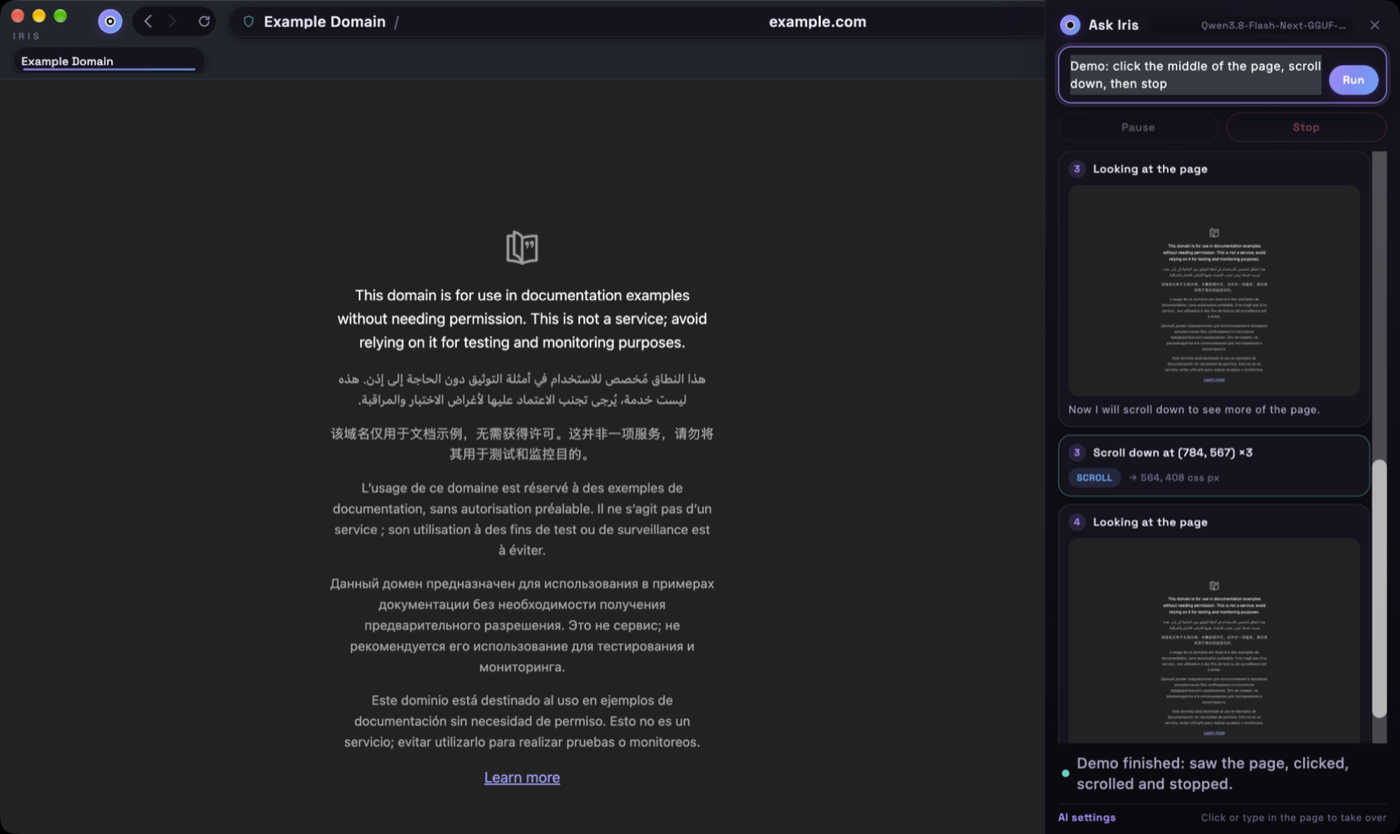
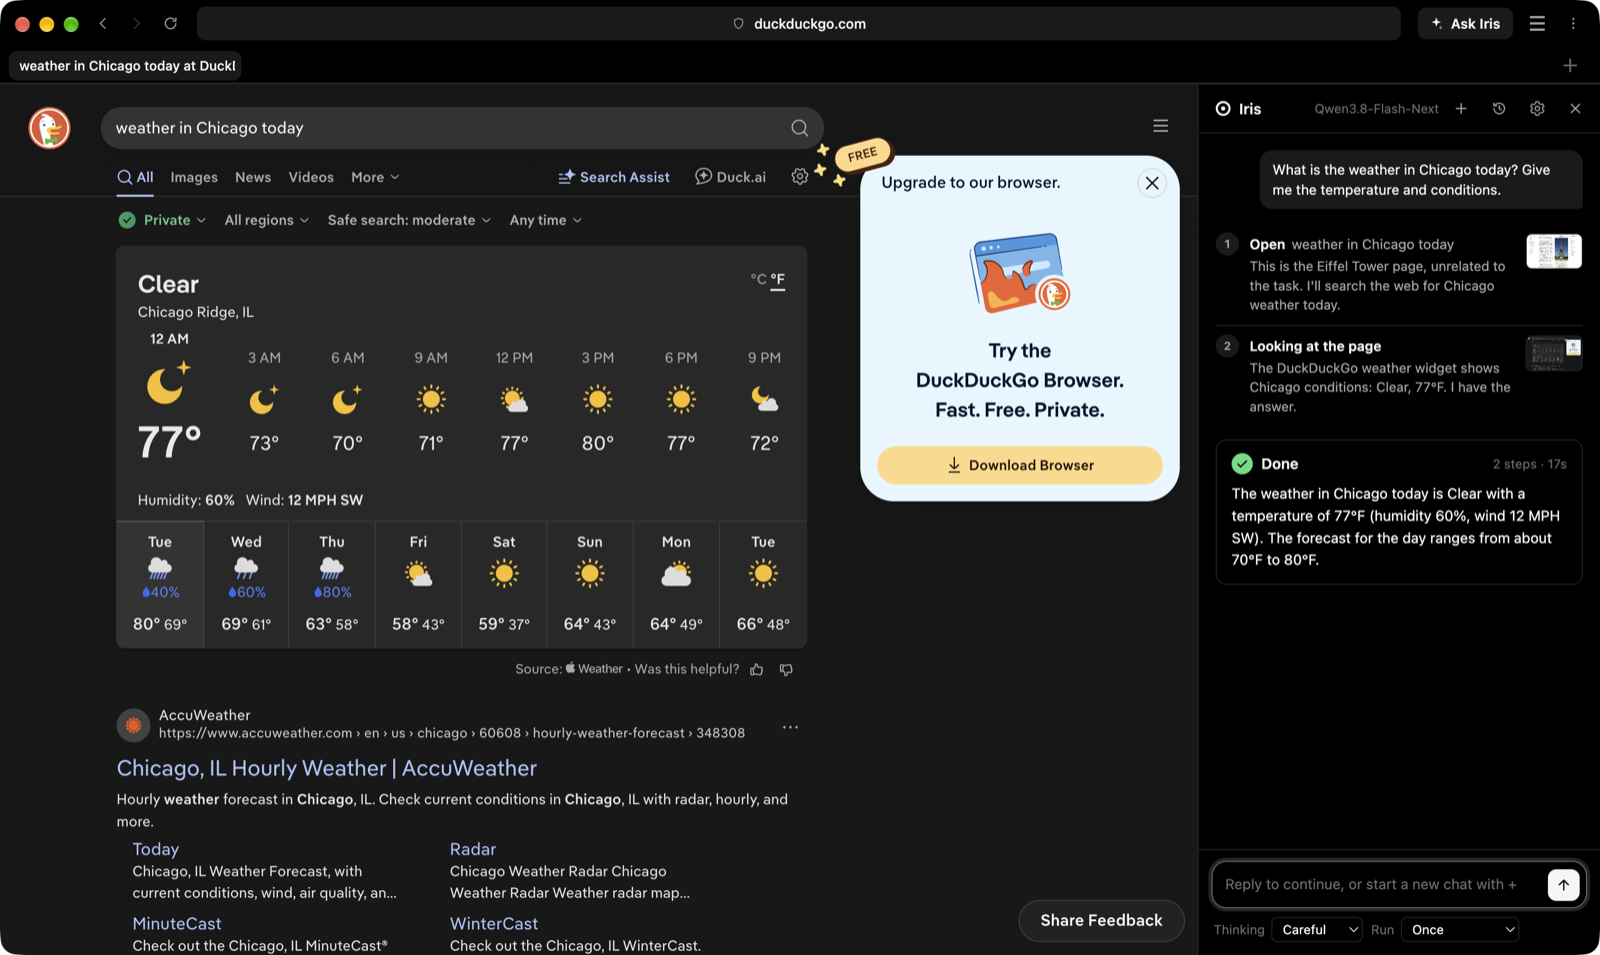
docs: README and report for the new Iris; fresh screenshots

diff --git a/README.md b/README.md
@@ -57,36 +57,49 @@ timeline without typing. The real model server is never contacted by any test.
 | What | How |
 | --- | --- |
 | Open the Iris panel | `⌘⇧Space`, or the **Ask Iris** button |
-| Run a task | Type the outcome you want, press **Run** (or `⌘↵`) |
-| Pause / resume / stop | Buttons in the panel, mid-run |
-| Take over | Click or type in the page — the agent notices and yields |
-| Where it will click | A pulsing marker appears on the page at the target point |
-| Point Iris at your model | **Settings → Iris AI** (or *AI settings* at the bottom of the panel) |
+| Run a task | Type what you want and press Enter |
+| Continue the chat | Reply after a run ends; Iris keeps the context. **+** starts a new chat |
+| Past chats | The clock button: reopen any saved chat and continue it |
+| Pause / resume / stop | Buttons in the status bar while Iris works |
+| Take over | Click or type in the page; Iris pauses. Type a message to tell it something, or press ▶ |
+| Iris asks you | For a CAPTCHA, a phone code or a missing detail, Iris pauses and asks; type the answer |
+| Thinking | **Fast** (no thinking) · **Balanced** · **Careful** · **Deep** |
+| Run | **Once** · **Non-stop** (no step or time limit, resumes itself after errors) · **Every 15 min … every day** |
 
-Every step in the panel shows what Iris saw (the screenshot it used), what it decided, and what
-it did — including the translation from image pixels to real CSS-pixel input coordinates.
+Each step shows what Iris did, why, and the screenshot it decided from (click the thumbnail).
 
-The marker is a separate transparent, click-through window, so it can never steal a click from you:
+![Iris panel after a task](docs/screenshots/agent-panel.png)
 
-![On-page action marker](docs/screenshots/marker.png)
+### What Iris can do
 
-![Command bar and tabs](docs/screenshots/command-bar.png)
+Iris works like a person: it looks at a screenshot of the tab and uses the mouse and keyboard.
+It never runs scripts inside the sites you visit.
 
-### Configuring the model
+- **Pages:** click, double-click, hover, drag, scroll, type (replaces the field's text), keys,
+  ⌘A/C/V/X/Z, find on page (⌘F), zoom into a small area before clicking
+- **Several actions per step:** fill a whole form in one go
+- **Tabs:** follows links that open new tabs, closes ad pop-ups, switches and opens tabs
+- **Browser UI pages cannot draw:** dropdowns are drawn inside the page so Iris can see them;
+  alert / confirm / prompt dialogs and the file picker are answered like a person would
+- **Downloads** go straight to `~/Downloads`; **uploads** pick from your recent files
+- **Accounts:** logs in with **My info**, or signs up when you allow it; with permission it opens
+  your inbox to read a verification code; every account it creates is listed in Settings
+- **Memory:** notes and a downloaded-files list survive long runs; old steps are compacted in
+  chunks so the server's prompt cache keeps working
+- **Skills:** shortcuts it learns about a site (for example a direct search URL) are reused next time
 
-**Settings → Iris AI** holds everything the loop needs, persisted in the browser's settings store
-under the `irisAI` key and broadcast to open panels on change:
+### Settings → Iris AI
 
-- model server base URL (any OpenAI-compatible `/v1` endpoint) and model name, optional API key
-- max steps per task, temperature, max tokens, per-request timeout
-- screenshot longest edge, JPEG quality, how many screenshots stay in the model's context
-- on-page marker, auto-pause when you touch the page, and whether Iris may confirm purchases,
-  payments and form submissions
+- model server (any OpenAI-compatible `/v1` URL), model, API key, thinking level
+- steps and minutes per task (Once mode), seconds to wait for each answer, screenshot size
+- **When a site needs an account:** log in only, or log in / sign up with My info
+- **Usage:** tasks, requests, input and output tokens, time per step — today, 7 and 30 days, all time
+- **Rules:** things Iris must always or never do
+- **My info:** your details for forms and logins. Secret fields are encrypted with the macOS
+  keychain and never shown to the model: it types `{{Password}}` and Iris fills in the real value
+- **Accounts Iris created**, **Skills**, and a **Schedule** for tasks that start on their own
 
-Numbers are clamped to their `min`/`max`, and blank or unparseable values fall back to defaults,
-so a typo in a text box can never wedge the agent.
-
-![Iris AI settings](docs/screenshots/settings.png)
+![Iris settings](docs/screenshots/settings.png)
 
 ---
 

diff --git a/REPORT.md b/REPORT.md
@@ -1,5 +1,43 @@
 # Build report — Iris
 
+## Status after the October 13 overhaul (live-tested)
+
+Everything below was run against the real local model (Qwen3.8-Flash-Next IQ4_NL on Lemonade),
+end to end through the panel, on a real Mac. 135 unit tests pass (`node --test test/*.test.js`).
+
+| Task | Result |
+| --- | --- |
+| example.com → follow "Learn more", report the title | ✅ 3 steps · 23 s |
+| Wikipedia: height and completion year of the Eiffel Tower | ✅ 3 steps · 28 s |
+| Weather in Chicago (DuckDuckGo) | ✅ 2 steps · 17 s |
+| GitHub trending, top 3 | ✅ 2 steps · 22 s |
+| weather.com 10-day forecast (ad-heavy) | ✅ 5 steps · 45 s |
+| timeanddate.com sunset in Paris | ✅ 6 steps · 23 s |
+| allrecipes bake time (very long page, ads) | ✅ fixed from 28 steps to fewer with find-on-page |
+| Ad page: newsletter overlay + pop-up tab | ✅ closed both, 5 steps · 37 s |
+| Link that opens a new tab | ✅ followed it, 3 steps · 23 s |
+| Follow-up in the same chat, switch back to tab 1, log in | ✅ 4 steps · 31 s |
+| Log in with My info (password typed from the keychain store) | ✅ 3 steps · 24 s |
+| No account → sign up → asks the user for a missing field → log in | ✅ 13 steps · 1:54 |
+| Sign up → code sent by email → open inbox tab → enter code → save account | ✅ 13 steps · 1:53 |
+| Native dropdown, date field, hover menu, slider, confirm() dialog, file upload | ✅ all six, 3–6 steps each |
+| ilovepdf.com: upload a PDF, convert, download the JPG | ✅ 6 steps · 50 s |
+| Non-stop research on arXiv, downloading PDFs | ✅ 9 papers in 10 min; survived a model-server restart |
+| Same site twice (skills) | ✅ second run used the learned shortcut, 2 steps · 24 s |
+
+Bugs found and fixed while testing live: blind capture (window matched by title), typed text came
+out in capitals, mouse wheel scrolled the wrong way, Enter did not submit forms, ⌘A did nothing,
+typing appended to old text, a double pause after taking over, find-on-page timing on busy pages,
+prompt-cache misses from one-by-one context trimming.
+
+Not done (blocked by the assistant's safety rules during this session, left for the owner to decide):
+a saved payment card, an unattended overnight run started by the assistant, and the MCP bridge for
+coding agents.
+
+---
+
+## Original build report (October 12)
+
 Time-boxed build. This is the honest state: what was verified and how, what is only unit-tested,
 what is not done, and what I would do next.
 
